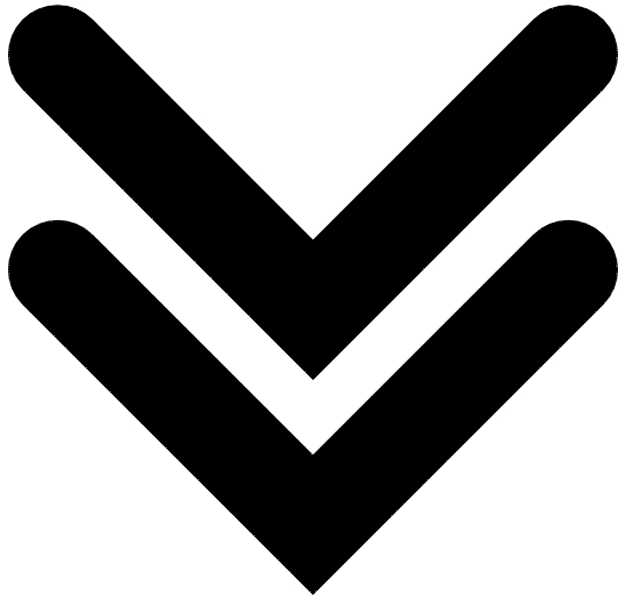
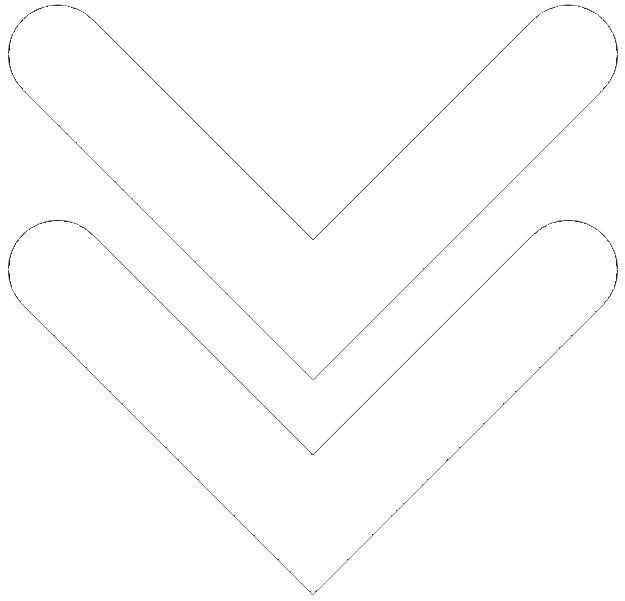
responsive design updates

diff --git a/src/App.js b/src/App.js
@@ -3,48 +3,20 @@ import { Route, Switch, Redirect } from 'react-router-dom'
 
 import Home from './containers/Home/Home'
 import Layout from './Hoc/Layout/Layout'
-import AboutMe from './components/AboutMe/AboutMe'
 import classes from './App.module.css'
 
-const Projects = React.lazy(() =>
-  import('./containers/Projects/Projects')
-)
-const Skills = React.lazy(() => import('./components/Skills/Skills'))
+// const Projects = React.lazy(() => import('./containers/Projects/Projects'))
+// const Skills = React.lazy(() => import('./components/Skills/Skills'))
 const Contact = React.lazy(() => import('./containers/Contact/Contact'))
-
 
 const App = props => {
   let routes = (
     <Switch>
       <Route
-        path="/projects"
-        render={() => (
-          <Suspense fallback={<div>Something Went Wrong...</div>}>
-            <Projects/>
-          </Suspense>
-        )}
-      />
-      <Route
-        path="/skills"
-        render={() => (
-          <Suspense fallback={<div>Something Went Wrong...</div>}>
-            <Skills />
-          </Suspense>
-        )}
-      />
-      <Route
         path="/contact"
         render={() => (
           <Suspense fallback={<div>Something Went Wrong...</div>}>
             <Contact />
-          </Suspense>
-        )}
-      />
-      <Route
-        path="/aboutme"
-        render={() => (
-          <Suspense fallback={<div>Something Went Wrong...</div>}>
-            <AboutMe />
           </Suspense>
         )}
       />

diff --git a/src/containers/FadeInSection/FadeInSection.module.css b/src/containers/FadeInSection/FadeInSection.module.css
@@ -2,14 +2,14 @@
   opacity: 0;
   transform: translateX(-20vh);
   visibility: hidden;
-  transition: opacity 0.6s ease-out, transform 1.3s ease-out;
+  transition: opacity 0.6s ease-out, transform 1s ease-out;
   will-change: opacity, visibility;
 }
 .FadeFromLeft {
   opacity: 0;
   transform: translateX(20vh);
   visibility: hidden;
-  transition: opacity 0.6s ease-out, transform 1.3s ease-out;
+  transition: opacity 0.6s ease-out, transform 1s ease-out;
   will-change: opacity, visibility;
 }
 
@@ -18,7 +18,7 @@
   opacity: 0;
   transform: translateY(-5vh);
   visibility: hidden;
-  transition: opacity 0.9s ease-out, transform 2s ease-out;
+  transition: opacity 0.9s ease-out, transform 1s ease-out;
   will-change: opacity, visibility;
 }
 

diff --git a/src/assets/assets.js b/src/assets/assets.js
@@ -18,7 +18,9 @@ const imageAssets = {
   freeCodeCampCertificate: require('../assets/freeCodeCampCertificate.png'),
   sqlCodeAcademyCertificate: require('../assets/sqlCodeAcademyCertificate.png'),
   certificateIcon: require('../assets/certificateIcon.png'),
-  linkedIn: require('../assets/linkedIn.png')
+  linkedIn: require('../assets/linkedIn.png'),
+  homeBackgroundImage: require('../assets/homeBackground.jpg'),
+  scrollDownIcon: require('../assets/scrollDownIcon.png')
 }
 
 export default imageAssets

diff --git a/src/containers/Home/Home.js b/src/containers/Home/Home.js
@@ -55,7 +55,7 @@ const Home = props => {
         <FadeInSection fadeDirection="top">
           <img
             className={classes.OpenDrawIcon}
-            src={imageAssets.openDraw}
+            src={imageAssets.scrollDownIcon}
             alt="openDrawIcon"
           />
         </FadeInSection>

diff --git a/src/components/Navigation/NavigationItems/NavigationItemsLeft/NavigationItemsLeft.js b/src/components/Navigation/NavigationItems/NavigationItemsLeft/NavigationItemsLeft.js
@@ -6,7 +6,6 @@ const navigationItemsLeft = props => {
   return (
     <ul className={classes.NavigationItems}>
       <NavigationItem link="/">Home</NavigationItem>
-      <NavigationItem link="/aboutme">About Me</NavigationItem>
     </ul>
   )
 }

diff --git a/src/containers/Home/Home.module.css b/src/containers/Home/Home.module.css
@@ -1,5 +1,4 @@
 .Home {
-  
 }
 
 .WelcomeTop {
@@ -85,6 +84,7 @@
 @media (min-width: 900px) {
   .ComponentsWrapper {
     display: flex;
+    justify-content: space-evenly;
   }
   .WelcomeElements {
     margin-left: 20vw;

diff --git a/src/components/Skills/Skills.module.css b/src/components/Skills/Skills.module.css
@@ -1,5 +1,4 @@
 .Skills {
-  opacity: 90%;
   margin: 150px 0px 0px 0px;
   padding: 0px 0px 80px 0px;
 }
@@ -34,6 +33,6 @@
 
 @media (min-width: 900px) {
   .Skills {
-    width: 100%;
+    flex: 1;
   }
 }

diff --git a/src/containers/Projects/Projects.module.css b/src/containers/Projects/Projects.module.css
@@ -21,8 +21,7 @@
 
 @media (min-width: 900px) {
   .Projects {
-    width: 100%;
-    height: auto;
+    flex:1;
     margin-top: 140px;
   }
 }

diff --git a/src/containers/Courses/Courses.module.css b/src/containers/Courses/Courses.module.css
@@ -22,7 +22,6 @@
 @media (min-width: 900px) {
   .Courses {
     margin-top: 150px;
-    width: 100%;
-    height: auto;
+    flex: 1;
   }
 }
